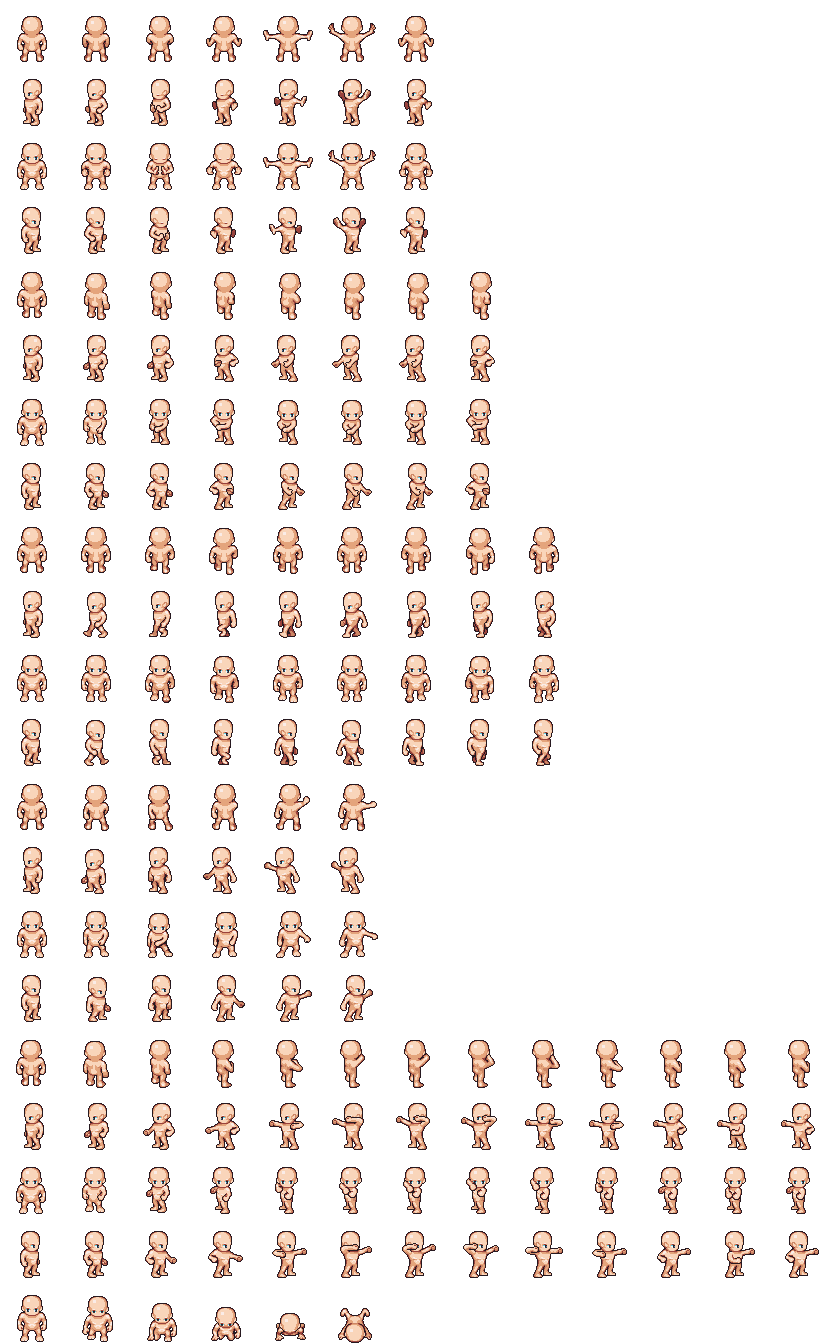
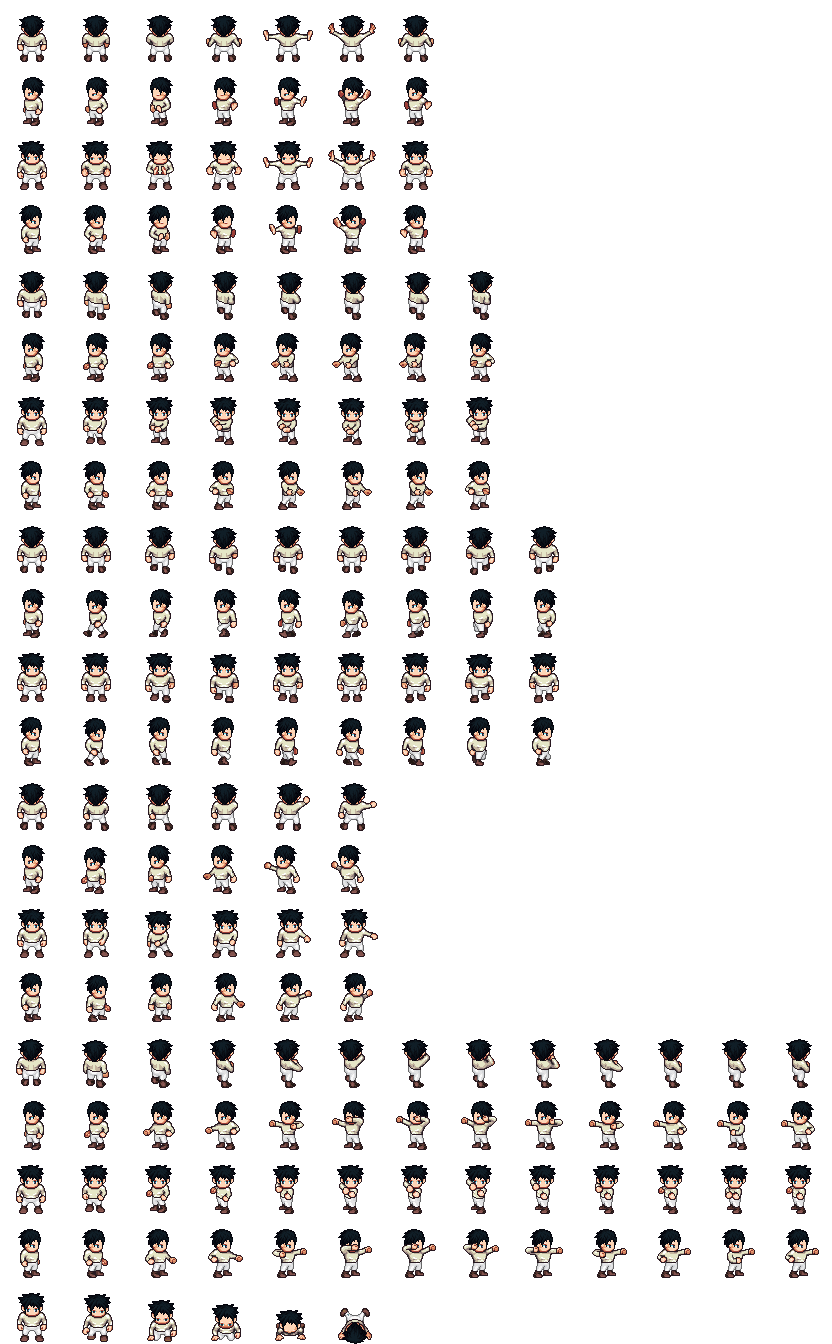
Pause menu and Inventory for the player (full)

diff --git a/main.py b/main.py
@@ -4,7 +4,14 @@ import time
 import pygame
 from menu import *
 
-hw, hh = 48, 48
+blockSize = (48, 48)
+
+class Button():
+    def __init__(self, elm):
+        self.elm = elm
+    def update(self, x, y, w, h):
+        self.x, self.y = x, y
+        self.w, self.h = w, h
 
 class Perso():
     def __init__(self):
@@ -16,25 +23,17 @@ class Perso():
     def update(self):
         self.rect = pygame.Rect(self.coor[0] - (self.size[0] / 2), self.coor[1] - (self.size[1] / 2), self.size[0], self.size[1])
 
-def draw_map(screen, map):
-    ground = pygame.image.load(".\\Ground.png")
-    for idy, inty in enumerate(map):
-        for idx, intx in enumerate(inty):
-            if intx == 1:
-                pygame.draw.rect(screen, (50, 50, 50), ((idx * hw), (idy * hh), hw, hh))
-            elif intx == 2:
-                pygame.draw.rect(screen, (50, 10, 10), ((idx * hw), (idy * hh), hw, hh))
-            elif intx == 0:
-                screen.blit(ground, (idx * hw, idy * hh), (0, 0, hw, hh))
-                #pygame.draw.rect(screen, (10, 50, 10), ((idx * hw), (idy * hh), hw, hh))
-
-def detection(monPerso, map, iPressed): # key detection
+def detection(monPerso, map): # key detection
+    global iPressed
+    global movingKey
     speed = 1
+    #movingKey = [pygame.K_s, pygame.K_w, pygame.K_d, pygame.K_a]#[pygame.K_DOWN, pygame.K_UP, pygame.K_RIGHT, pygame.K_LEFT]
+    hw, hh = blockSize[0], blockSize[1]
     x = [monPerso.coor[0] - (monPerso.size[0] / 2), monPerso.coor[0] + (monPerso.size[0] / 2)]
     y = [monPerso.coor[1] - (monPerso.size[1] / 2), monPerso.coor[1] + (monPerso.size[1] / 2)]
     tmpx, tmpy = int((monPerso.coor[0]) // hw), int((monPerso.coor[1]) // hh)
     key = pygame.key.get_pressed()
-    if key[pygame.K_DOWN] == 1 and monPerso.state != "Inventory":
+    if key[movingKey[0]] and monPerso.state != "Inventory":
         monPerso.dir = 2
         tmpy += 1
         tmp = [ [(tmpx - 1) * hh, tmpx * hh - 1], [tmpx * hh, (tmpx + 1) * hh - 1], [(tmpx + 1) * hh, (tmpx + 2) * hh - 1] ]
@@ -44,7 +43,7 @@ def detection(monPerso, map, iPressed): # key detection
             and not (x[1] > tmp[2][0] and x[0] < tmp[2][1] and y[1] >= z and map[tmpy][tmpx + 1] > 0)):
             monPerso.coor[1] += speed
 
-    if key[pygame.K_UP] == 1 and monPerso.state != "Inventory":
+    if key[movingKey[1]] and monPerso.state != "Inventory":
         monPerso.dir = 0
         tmp = [ [(tmpx - 1) * hh, tmpx * hh - 1], [tmpx * hh, (tmpx + 1) * hh - 1], [(tmpx + 1) * hh, (tmpx + 2) * hh - 1] ]
         z = tmpy * hh
@@ -53,7 +52,7 @@ def detection(monPerso, map, iPressed): # key detection
             and not (x[1] > tmp[2][0] and x[0] < tmp[2][1] and y[0] <= z and map[tmpy - 1][tmpx + 1] > 0)):
             monPerso.coor[1] -= speed
 
-    if key[pygame.K_RIGHT] == 1 and monPerso.state != "Inventory":
+    if key[movingKey[2]] and monPerso.state != "Inventory":
         monPerso.dir = 3
         tmp = [ [(tmpy - 1) * hh, tmpy * hh - 1], [tmpy * hh, (tmpy + 1) * hh - 1], [(tmpy + 1) * hh, (tmpy + 2) * hh - 1] ]
         z = (tmpx + 1) * hh
@@ -62,7 +61,7 @@ def detection(monPerso, map, iPressed): # key detection
             and not (y[1] > tmp[2][0] and y[0] < tmp[2][1] and x[1] >= z and map[tmpy + 1][tmpx + 1] > 0)):
             monPerso.coor[0] += speed
 
-    if key[pygame.K_LEFT] == 1 and monPerso.state != "Inventory":
+    if key[movingKey[3]] and monPerso.state != "Inventory":
         monPerso.dir = 1
         tmp = [ [(tmpy - 1) * hh, tmpy * hh - 1], [tmpy * hh, (tmpy + 1) * hh - 1], [(tmpy + 1) * hh, (tmpy + 2) * hh - 1] ]
         z = tmpx * hh
@@ -71,31 +70,75 @@ def detection(monPerso, map, iPressed): # key detection
             and not (y[1] > tmp[2][0] and y[0] < tmp[2][1] and x[0] <= z and map[tmpy + 1][tmpx - 1] > 0)):
             monPerso.coor[0] -= speed
 
-    if key[pygame.K_e] == 1 and iPressed == False:
+    if key[pygame.K_e] and iPressed == False:
         if monPerso.dir == 0: tmpy -= 1 # N
         if monPerso.dir == 2: tmpy += 1 # S
         if monPerso.dir == 1: tmpx -= 1 # E
         if monPerso.dir == 3: tmpx += 1 # O
-
         if map[tmpy][tmpx] == 2:
             monPerso.state = "Inventory"
 
-    if key[pygame.K_i] == 1 and iPressed == False:
+    if key[pygame.K_i]: monPerso.state = "Inventory"
+
+    if key[pygame.K_ESCAPE] and iPressed == False:
+        #sys.exit()
         iPressed = True
-        if monPerso.state == "Inventory":
-            monPerso.state = "AFK"
-        else: monPerso.state = "Inventory"
-    elif not key[pygame.K_i]: iPressed = False
+        monPerso.state = "Pause"
+    elif not key[pygame.K_ESCAPE]: iPressed = False
 
     monPerso.update()
-    return iPressed
 
+def invertoryMenu(screen, size, elements):
+    global iPressed
+    taille, elem = 60, list()
+    white, dark = (250, 250, 250), (60, 60, 60)
+    titleFont = pygame.font.SysFont('Comic Sans MS', 50)
+    statusFont, status = pygame.font.SysFont('Comic Sans MS', 30), ""
+    title = (statusFont.render("Objet", False, dark), statusFont.render("Acces Rapide", False, dark), statusFont.render("Description", False, dark))
+    old = screen.copy()
+    back = Button(pygame.Surface((size[0] * 7 // 10, size[1] * 7 // 10), pygame.SRCALPHA))
+    back.update(size[0] * 5 // 10 - (size[0] * 7 // 20), size[1] * 5 // 10 - (size[1] * 7 // 20), size[0] * 7 // 10, size[1] * 7 // 10)
+    mainTitle = Button(titleFont.render("INVENTAIRE", False, white))
+    mainTitle.update(size[0] * 5 // 10 - (mainTitle.elm.get_width() / 2), back.y + (back.h * 7 // 100), mainTitle.elm.get_width(), mainTitle.elm.get_height())
+    for i in range(20):
+        elem.append(pygame.Rect((i % 5) * (back.w * 2 // 100) + ((i % 5) * taille) + (back.x + (back.w * 6 // 100)), (i // 5) * (back.h * 3 // 100) + ((i // 5) * taille) + (back.y + (back.h * 40 // 100)), taille, taille))
+    hand = pygame.Rect(size[0] / 2, size[1] / 2, taille, taille)
+    back.elm.fill((0, 0, 0, 190))
+    pygame.mouse.set_visible(True)
+    while True:
+        for event in pygame.event.get():
+            #if event.type == pygame.MOUSEBUTTONDOWN:
+            if event.type == pygame.KEYDOWN:
+                if event.key == pygame.K_ESCAPE or event.key == pygame.K_i:
+                    monPerso.state = "AFK"
+                    pygame.mouse.set_visible(False)
+                    iPressed = True
+                    return
+        m_pos = pygame.mouse.get_pos()
+        for cell in elem:
+            if m_pos[0] > cell.x and m_pos[0] < cell.x + cell.w and m_pos[1] > cell.y and m_pos[1] < cell.y + cell.h:
+                status = statusFont.render("Cellule Vide", False, white)
+                break
+        else: status = statusFont.render("Seléctionnez un objet", False, white)
+        screen.blit(old, (0, 0))
+        screen.blit(back.elm, (back.x, back.y)) # put in the center
+        screen.blit(mainTitle.elm, (mainTitle.x, mainTitle.y))
+        screen.blit(title[0], (back.x + back.w * 19 // 100, back.y + back.h * 26 // 100))
+        screen.blit(title[1], (back.x + back.w * 46 // 100, back.y + back.h * 26 // 100))
+        screen.blit(title[2], (back.x + back.w * 70 // 100, back.y + back.h * 26 // 100))
+        screen.blit(status, (back.x + (back.w * 70 // 100), size[1] * 5 // 10))
+        pygame.draw.rect(screen, (0, 0, 0), hand)
+        for rect in elem: pygame.draw.rect(screen, (0, 0, 0), rect)
+        pygame.draw.rect(screen, dark, pygame.Rect(back.x + back.w * 43 // 100, back.y + back.h * 35 // 100, 2, back.h * 55 // 100))
+        pygame.draw.rect(screen, dark, pygame.Rect(back.x + back.w * 62 // 100, back.y + back.h * 35 // 100, 2, back.h * 55 // 100))
+        pygame.display.flip()
 
 pygame.init() # Program initiats
-size = width, height = 1500, 700
-os.environ['SDL_VIDEO_WINDOW_POS'] = "%d,%d" % (10, 80)
-screen = pygame.display.set_mode(size)
+size = width, height = 1920, 1080#1500, 700
+os.environ['SDL_VIDEO_WINDOW_POS'] = "%d,%d" % (0, 0)
+screen = pygame.display.set_mode(size)#, pygame.FULLSCREEN)
 pygame.font.init()
+pygame.mouse.set_visible(False)
 
 black = 0, 0, 0
 red = 255, 0, 0
@@ -120,7 +163,7 @@ map = [
 
 pygame.display.set_caption("Prison Break")
 
-
+movingKey = [pygame.K_s, pygame.K_w, pygame.K_d, pygame.K_a]
 size_perso = w, h = 31, 48
 x, y = 16, 526
 it = 0
@@ -130,14 +173,12 @@ image = pygame.image.load(".\\Perso_test.png")
 heroPic = pygame.Surface(size_perso)
 
 background = pygame.Surface(size)
-draw_map(background, map)
+draw_map(background, map, blockSize)
 
 #pygame.mouse.set_visible(False)
 monPerso = Perso()
 
-test = Inventory()
-
-secondPos = [int((monPerso.coor[0]) // (hw * 2)), int((monPerso.coor[1]) // (hh * 2))]
+secondPos = [int((monPerso.coor[0]) // (blockSize[0] * 2)), int((monPerso.coor[1]) // (blockSize[1] * 2))]
 movement = time.time()
 timerAnimation = time.time()
 iPressed = False
@@ -148,26 +189,20 @@ while 1:
     for event in pygame.event.get():
         if event.type == pygame.QUIT: sys.exit()
         if event.type == pygame.KEYDOWN:
-            if event.key in [pygame.K_DOWN, pygame.K_UP, pygame.K_RIGHT, pygame.K_LEFT] and monPerso.state != "Inventory": monPerso.state = "Moving"
-            if event.key == pygame.K_ESCAPE and monPerso.state == "Inventory": monPerso.state = "AFK"
+            if event.key in movingKey and monPerso.state == "AFK": monPerso.state = "Moving"
+
 
     if time.time() - movement > 0.004:
-        iPressed = detection(monPerso, map, iPressed)
+        detection(monPerso, map)
         movement = time.time()
 
-    #if monPerso.state == "Inventory":
-    #    inventoryUpdate()
     if monPerso.state == "Moving":
         if (time.time() - timerAnimation) > 0.07:
             key = pygame.key.get_pressed()
-            if (key[pygame.K_DOWN] or key[pygame.K_UP] or key[pygame.K_LEFT] or key[pygame.K_RIGHT]):
+            if (key[movingKey[0]] or key[movingKey[1]] or key[movingKey[2]] or key[movingKey[3]]):
                 timerAnimation, it = time.time(), it + 1
-                if it > 8 : it = 0
+                if it > 8 : it = 1
             else: monPerso.state, it = "AFK", 0
-
-    #if state != monPerso.state:
-    #    state = monPerso.state
-    #    print("state : {}".format(state))
 
     #pygame.draw.rect(screen, (0, 0, 240), monPerso.rect)
     x, y = 16 + (it * 64), 526 + (monPerso.dir * 64)
@@ -176,5 +211,6 @@ while 1:
     heroPic.blit(image, (0, 0), (x, y, w, h))
     screen.blit(heroPic, (monPerso.rect[0], monPerso.rect[1] - (heroPic.get_size()[1] - monPerso.size[1])))
     pygame.transform.scale(screen, (width, height), screen)
-    if monPerso.state == "Inventory": test.show(screen, size, ())
+    if monPerso.state == "Inventory": invertoryMenu(screen, size, monPerso)
+    if monPerso.state == "Pause": pauseMenu(screen, size, monPerso)
     pygame.display.flip()

diff --git a/menu.py b/menu.py
@@ -1,6 +1,53 @@
 import pygame
+import sys
 
-class Inventory:
-    def show(self, screen, size, elements):
-        back = pygame.Rect((size[0] // 10, size[1] // 10), (size[0] * 8 // 10, size[1] * 8 // 10))
-        pygame.draw.rect(screen, pygame.Color(0, 0, 200, 50), back)
+def draw_map(screen, map, blockSize):
+    ground = pygame.image.load(".\\Ground.png")
+    hw, hh = blockSize[0], blockSize[1]
+    for idy, inty in enumerate(map):
+        for idx, intx in enumerate(inty):
+            if intx == 1:
+                pygame.draw.rect(screen, (50, 50, 50), ((idx * hw), (idy * hh), hw, hh))
+            elif intx == 2:
+                pygame.draw.rect(screen, (50, 10, 10), ((idx * hw), (idy * hh), hw, hh))
+            elif intx == 0:
+                screen.blit(ground, (idx * hw, idy * hh), (0, 0, hw, hh))
+                #pygame.draw.rect(screen, (10, 50, 10), ((idx * hw), (idy * hh), hw, hh))
+
+
+def pauseMenu(screen, size, monPerso):
+    global iPressed
+    titleFont = pygame.font.SysFont('Comic Sans MS', 50)
+    buttonFont = pygame.font.SysFont('Comic Sans MS', 40)
+    white = (250, 250, 250)
+    back = pygame.Surface((size[0] * 5 // 10, size[1] * 4 // 10), pygame.SRCALPHA)
+    old = screen.copy()
+    x, y = size[0] * 5 // 10 - (size[0] * 4 // 20), size[1] * 5 // 10 - (size[1] * 4 // 20)
+    title = titleFont.render("PAUSE", False, white)
+    resume = buttonFont.render("Reprendre", False, white)
+    quit = buttonFont.render("Quitter", False, white)
+    back.fill((0, 0, 0, 190))
+    pygame.mouse.set_visible(True)
+    while True:
+        for event in pygame.event.get():
+            if event.type == pygame.MOUSEBUTTONDOWN:
+                m_pos = (int(pygame.mouse.get_pos()[0]), int(pygame.mouse.get_pos()[1]))
+                if m_pos[0] > (x + (back.get_width() / 2) - (back.get_width() * 6 // 20)) and m_pos[0] < (x + (back.get_width() / 2) + (back.get_width() * 6 // 20)):
+                    if m_pos[1] > y + (back.get_height() * 45 // 100) and m_pos[1] < y + (back.get_height() * 65 // 100):
+                        monPerso.state = "AFK"
+                        pygame.mouse.set_visible(False)
+                        return
+                    elif m_pos[1] > y + (back.get_height() * 70 // 100) and m_pos[1] < y + (back.get_height() * 90 // 100): sys.exit()
+            if event.type == pygame.KEYDOWN:
+                if event.key == pygame.K_ESCAPE:
+                    monPerso.state, iPressed = "AFK", True
+                    pygame.mouse.set_visible(False)
+                    return
+        screen.blit(old, (0, 0))
+        screen.blit(back, [x, y])
+        pygame.draw.rect(screen, white, pygame.Rect((x + (back.get_width() / 2) - (back.get_width() * 6 // 20), y + (back.get_height() * 45 // 100)), (back.get_width() * 6 // 10, back.get_height() * 2 // 10)), 1)
+        pygame.draw.rect(screen, white, pygame.Rect((x + (back.get_width() / 2) - (back.get_width() * 6 // 20), y + (back.get_height() * 7 // 10)), (back.get_width() * 6 // 10, back.get_height() * 2 // 10)), 1)
+        screen.blit(title, (x + (back.get_width() / 2) - (title.get_width() / 2), y + (back.get_height() // 10)))
+        screen.blit(resume, (x + (back.get_width() / 2) - (resume.get_width() / 2), y + (back.get_height() * 55 // 100) - (resume.get_height() * 5 // 10)))
+        screen.blit(quit, (x + (back.get_width() / 2) - (quit.get_width() / 2), y + (back.get_height() * 80 // 100) - (quit.get_height() * 5 // 10)))
+        pygame.display.flip()

diff --git a/README.md b/README.md
@@ -1,11 +1,5 @@
 # Prison-Break
 4th grade mineure project
 
-16 ; 526
-47 ; 574
-                                (31 ; 48) dimension
-next
-16 ; 590        80 ; 590
-16 ; 638        80 ; 638
-
 9 animations for walking
+http://gaurav.munjal.us/Universal-LPC-Spritesheet-Character-Generator/#?sex=male&body=light&eyes=blue&legs=none&clothes=formal&mail=none&armor=none&tie=none
